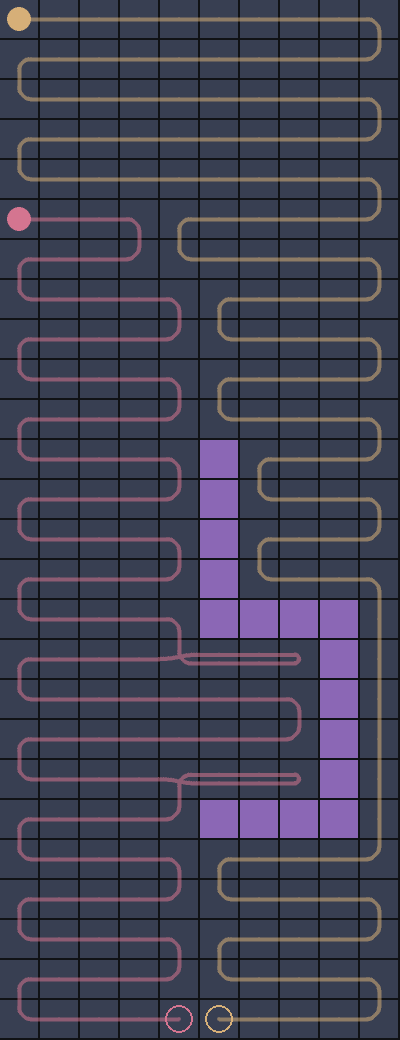
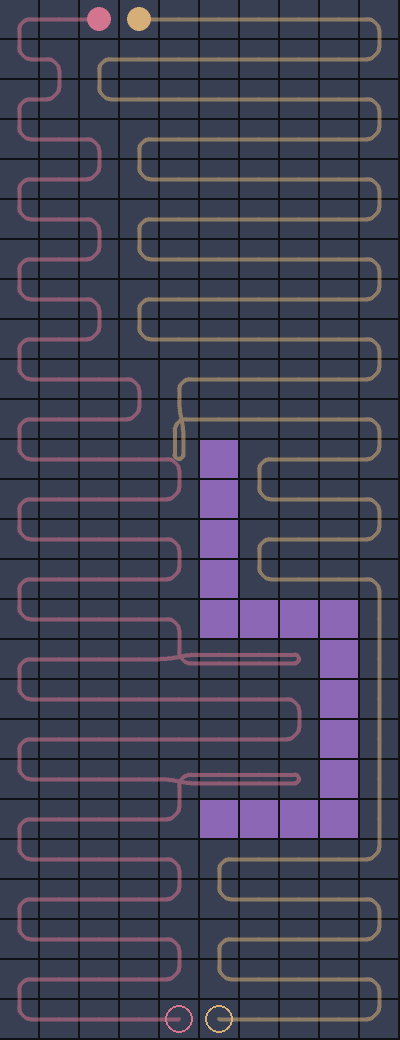
feat: shift boundaries in the least-shifted rows first
Cells moved between neighbours now come from the rows where the boundary
is closest to the original split, then from the top. Default maps: 476
to 468 ticks on average over 30 maps.

Changed region(s): [[0.12, 0.0, 0.57, 0.4615], [0.0, 0.0, 0.09, 0.2462], [0.33, 0.2154, 0.36, 0.2462]]

diff --git a/Pathing.py b/Pathing.py
@@ -155,6 +155,9 @@ class Planner:
         self.grid = grid            # the live map; holds which drone each cell is assigned to
         self.drones = drones
         self.obstacles = obstacles  # shared set of (x, y) obstacle cells the drones have seen so far
+        # First x of every drone's strip but the leftmost, as the field is first split. Set here, not in assign(),
+        # because stepping back in the visualizer builds a new Planner without assigning again.
+        self.boundaries = [xs[0] for xs in split_into_columns(grid.width, len(drones))[1:]]
 
     def assign(self):
         """Gives each drone a vertical strip of the field; every cell in it becomes a target."""
@@ -584,9 +587,12 @@ class Planner:
 
         The candidates are the heavier drone's cell nearest the lighter drone in
         every row above both of them, where that cell touches the lighter
-        drone's cells. Half the difference in work is moved, furthest up the
-        field first, which leaves the two with the same amount. Those rows
-        simply become one cell wider for the lighter drone.
+        drone's cells. Half the difference in work is moved, which leaves the
+        two with the same amount. Cells come first from the rows where the
+        boundary has moved least from the original split (rows where it moved
+        the other way count as least of all), and among those from the rows
+        furthest up the field. So the boundary stays as straight and as close
+        to the original columns as the loads allow.
         """
         heavy, light = (left, right) if loads[left] >= loads[right] else (right, left)
         gap = loads[heavy] - loads[light]
@@ -598,14 +604,16 @@ class Planner:
         for x, y in heavy.targets:
             if y < top:
                 rows[y].append(x)
+        original = self.boundaries[left.index]  # x of the right-hand drone's first cell when the field was first split
         strip = []
         for y, xs in rows.items():
             x = max(xs) if towards == 1 else min(xs)
             beside = (x + towards, y)
             if self.grid.in_bounds(*beside) and self.grid.cells[y][beside[0]].droneAllocationIndex == light.index:
-                strip.append((x, y))
-        strip.sort(key=lambda cell: cell[1])  # furthest up the field first
-        strip = strip[:int(gap // 2)]         # each cell moved closes the gap by two
+                shifted = original - beside[0] if towards == 1 else beside[0] + 1 - original  # cells the lighter drone already holds past the original line
+                strip.append((shifted, y, x))
+        strip.sort()  # least shifted first, then furthest up the field
+        strip = [(x, y) for _, y, x in strip[:int(gap // 2)]]  # each cell moved closes the gap by two
         if strip:
             self._transfer(strip, heavy, light)
 

diff --git a/README.md b/README.md
@@ -34,7 +34,7 @@ The field is cut into one vertical column per drone. Each drone sweeps its colum
 - Drones start side by side at the bottom centre. The walk to their own column never reassigns cells.
 - Before moving up a row, a drone checks for cells it skipped lower down. If the shortest route to one runs only through cells already seen, and the trip is no longer than the rows it still has to climb, it goes back for it then instead of at the end.
 - Before moving up a row, a drone also checks whether another drone is closer to the cells it is leaving behind. Each connected group of them goes to whichever drone has the shortest trip to it. Unseen cells count as free in that trip, so the owner keeps the cells while a way in may still exist.
-- Every tick the work is shared out. If two neighbours' remaining work differs by more than one cell, the lighter one takes half the difference from the edge of the other's column, furthest up the field first.
+- Every tick the work is shared out. If two neighbours' remaining work differs by more than one cell, the lighter one takes half the difference from the edge of the other's column. Cells come first from the rows where the boundary has moved least from the original split, and among those from the rows furthest up the field, so the boundary stays straight.
 - Among equally short routes, a drone takes the one over the most cells that another drone has flown and it has not, so a second pair of eyes sees them.
 - When a detour runs sideways over cells already flown, and the same stretch one row up or down is 3 or more of the drone's unvisited cells, the drone flies that row instead and steps back at the end. That costs two extra steps. Where the route was about to turn onto that row anyway it costs nothing, so one new cell is enough.
 - A drone that finishes takes over the cells the busiest drone would reach last, as many as it can finish by the time that drone is done. If nobody needs help it waits in its last cell.
@@ -56,6 +56,7 @@ Every number the planner depends on, all in `Planner` in `Pathing.py`, and where
 | `HELP_MIN` | 6 cells | A finished drone only helps a drone with at least this many cells left. | Picked. 2, 6 and 20 finished within noise of each other. |
 | `HANDOVER_WEIGHT` | 1.0 | Cells a drone is leaving behind go to another drone if that drone's trip to them, times this, is shorter than the owner's. 0 switches handing over off. | Picked as the plain comparison, then checked. 0.75, 1, 1.5 and 2 finished default maps within a tick of each other. Switching it off makes no difference on default maps and is 1.6% slower on dense, clustered maps and 3% slower on very dense ones. |
 | `SIDE_ROW_MIN` | 3 cells | A sideways stretch of a detour over already-flown cells moves to the row above or below, for two extra steps, if that covers at least this many of the drone's unvisited cells. 0 switches it off. | Tuned. Off, 2, 3, 4 and 6 finished default maps in 488, 480, 476, 477 and 487 ticks on average (30 maps) and sparse maps in 478, 474, 467, 469 and 476. The open field is 2 ticks slower with it on (455 against 453). Where the route turns onto that row anyway the swap is free and one new cell is enough; asking for 3 there as well was 2 ticks slower on default maps. |
+| Boundary shift order | least shifted row, then furthest up | Which cells move when neighbours even out their work: one per row, from the rows where the boundary is closest to the original split. | Measured against taking the top row first, which hollowed out the top rows into long sideways slivers. Default maps went from 476 to 468 ticks on average (30 maps), sparse from 467 to 461, dense from 520 to 508. |
 | Tie-breaks | new eyes, left, lower index | Two equally short routes: the one over more cells that only other drones have flown. Two equally cheap cells: the left one. Two drones with equal right of way: the lower index. | Picked. The first gives a cell a second look for free; the others make runs repeatable. |
 
 ## Edge cases
@@ -182,7 +183,7 @@ A finished drone takes over the cells the busiest drone would reach last, as man
 
 A pocket in yellow's column is closed on the top, right and bottom and opens only towards red's column, and a short wall runs up the boundary above it. Yellow climbs past on the far side, and left alone would fly all the way back round for it at the end.
 
-Each time yellow is about to move up, any drone closer to the cells it is leaving behind takes them. Red is beside the opening, so the pocket's rows join red's sweep. Red then has more to do, so the boundary shift gives yellow cells from the top of red's column. The run takes 128 ticks instead of 140.
+Each time yellow is about to move up, any drone closer to the cells it is leaving behind takes them. Red is beside the opening, so the pocket's rows join red's sweep. Red then has more to do, so the boundary shift gives yellow cells from the edge of red's column in the rows above the wall. The run takes 125 ticks instead of 138.
 
 ### A taken cell that a re-plan would bypass
 
